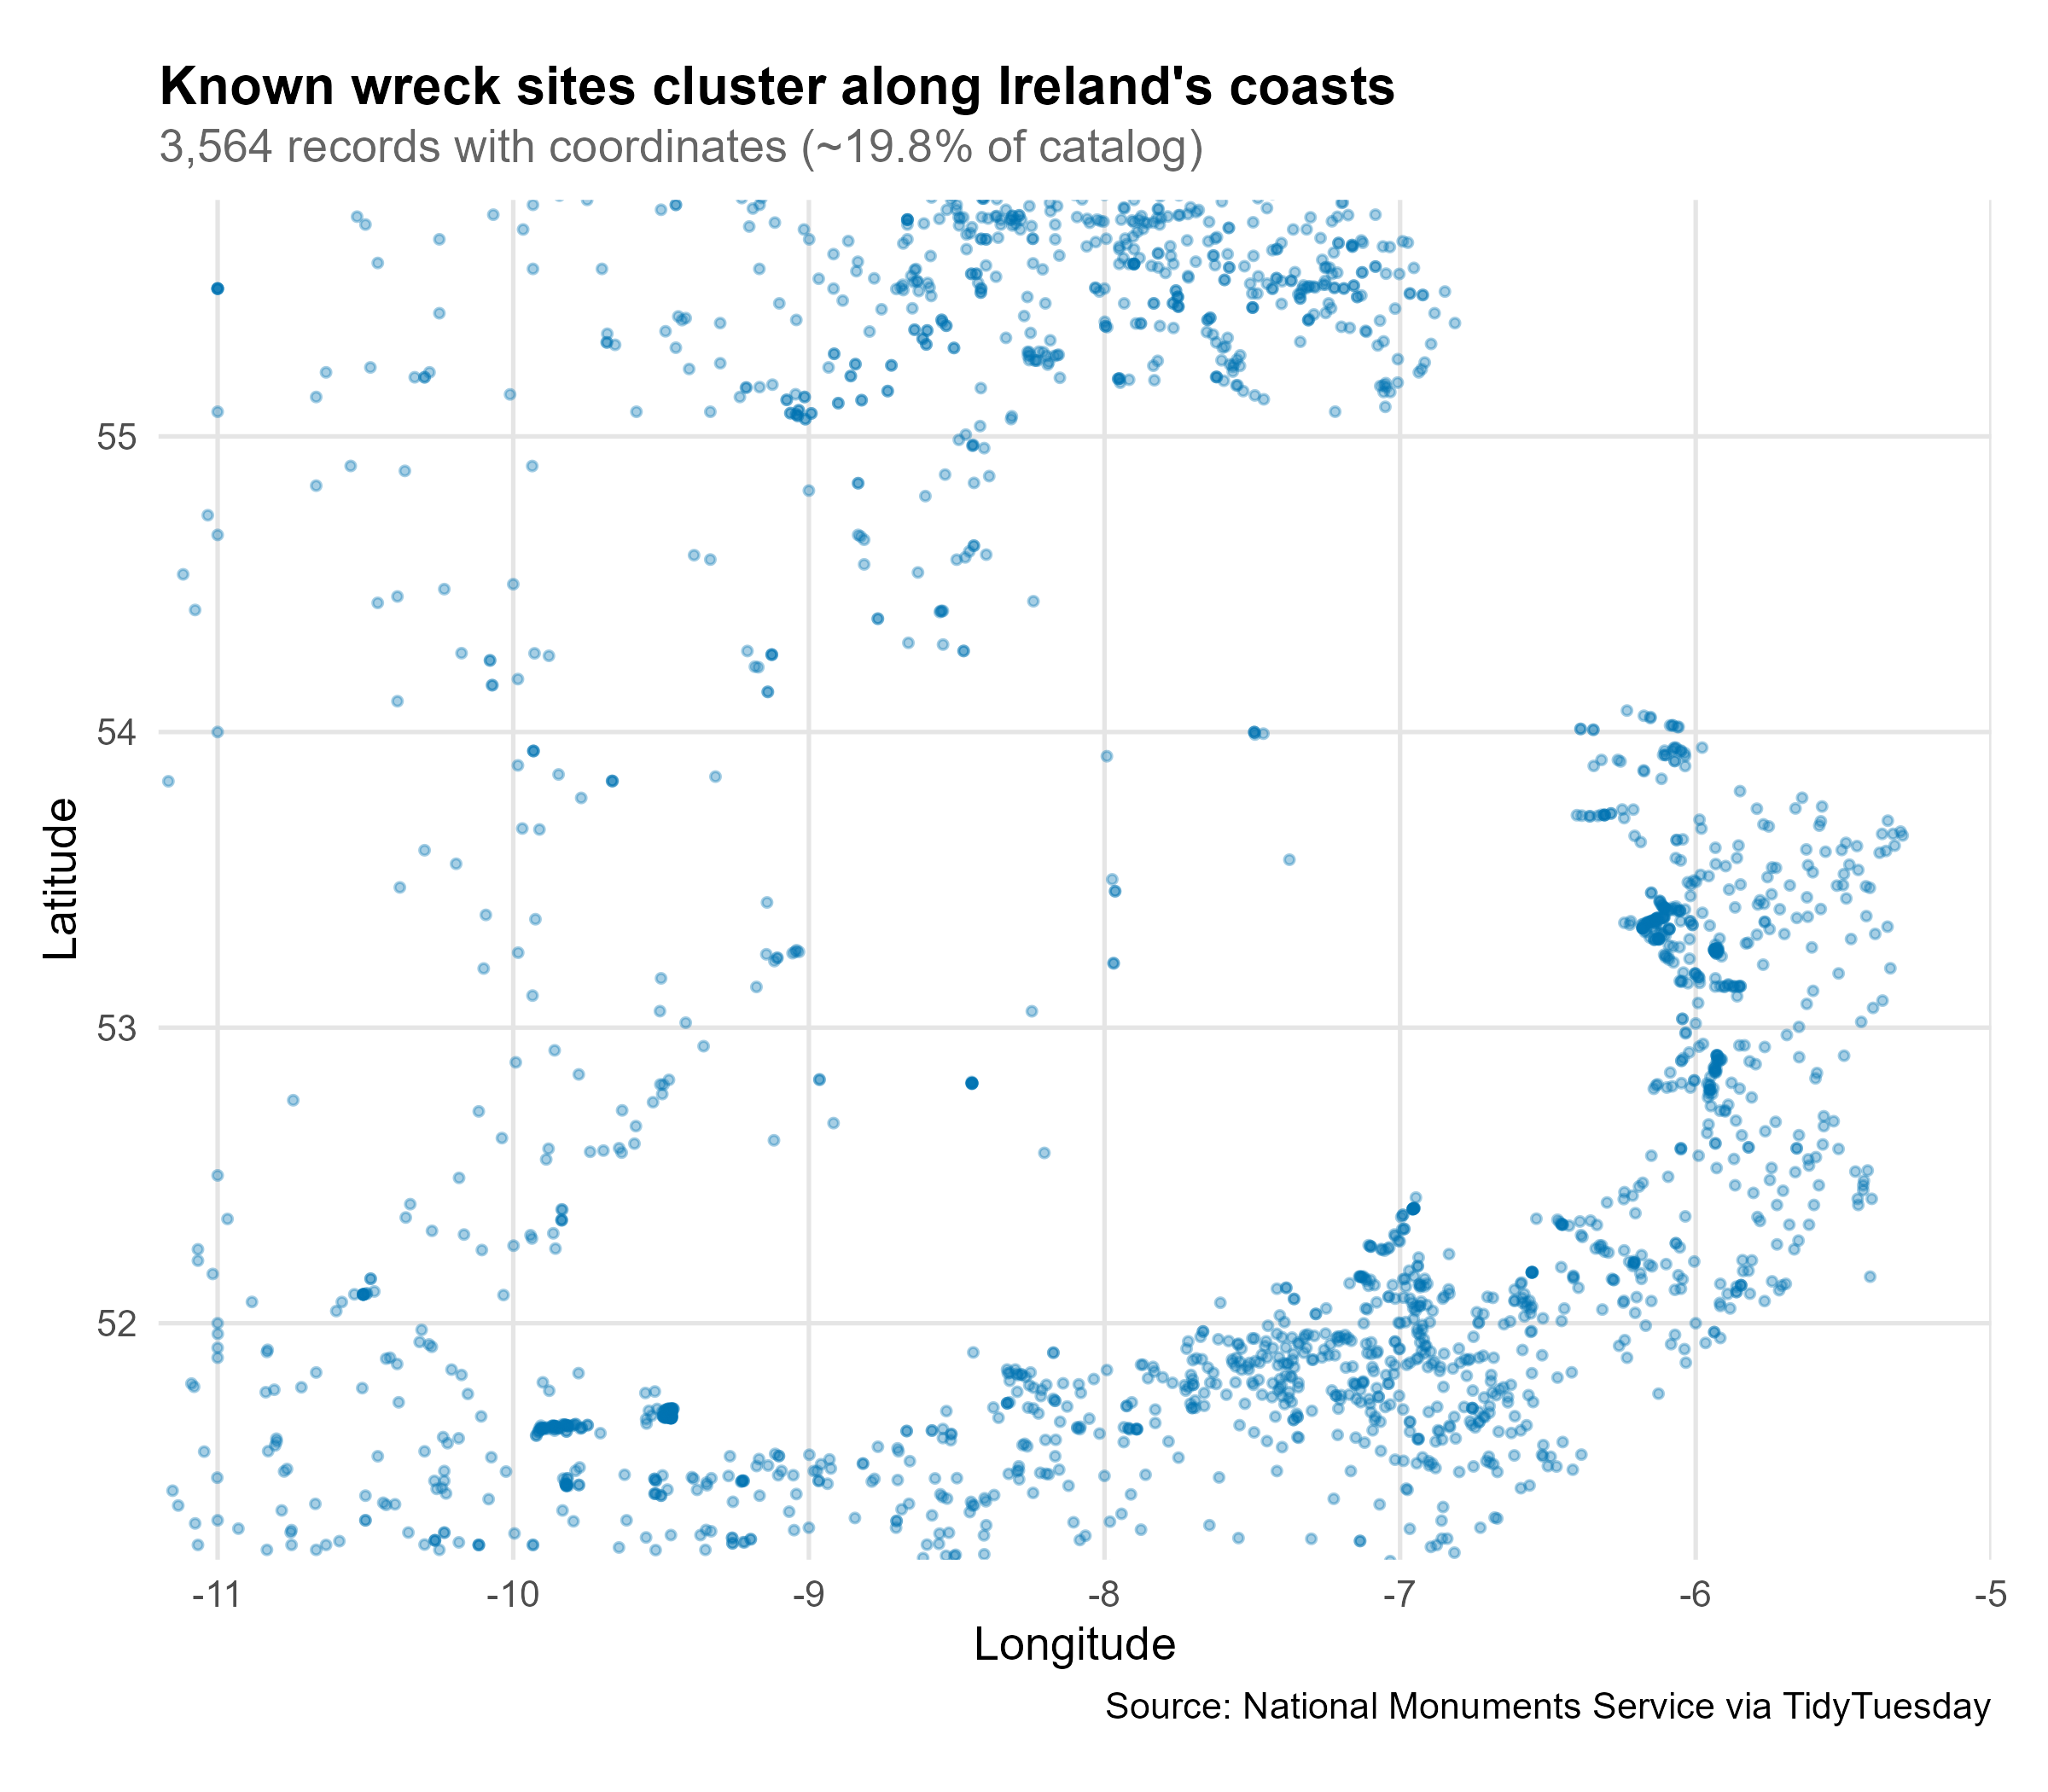
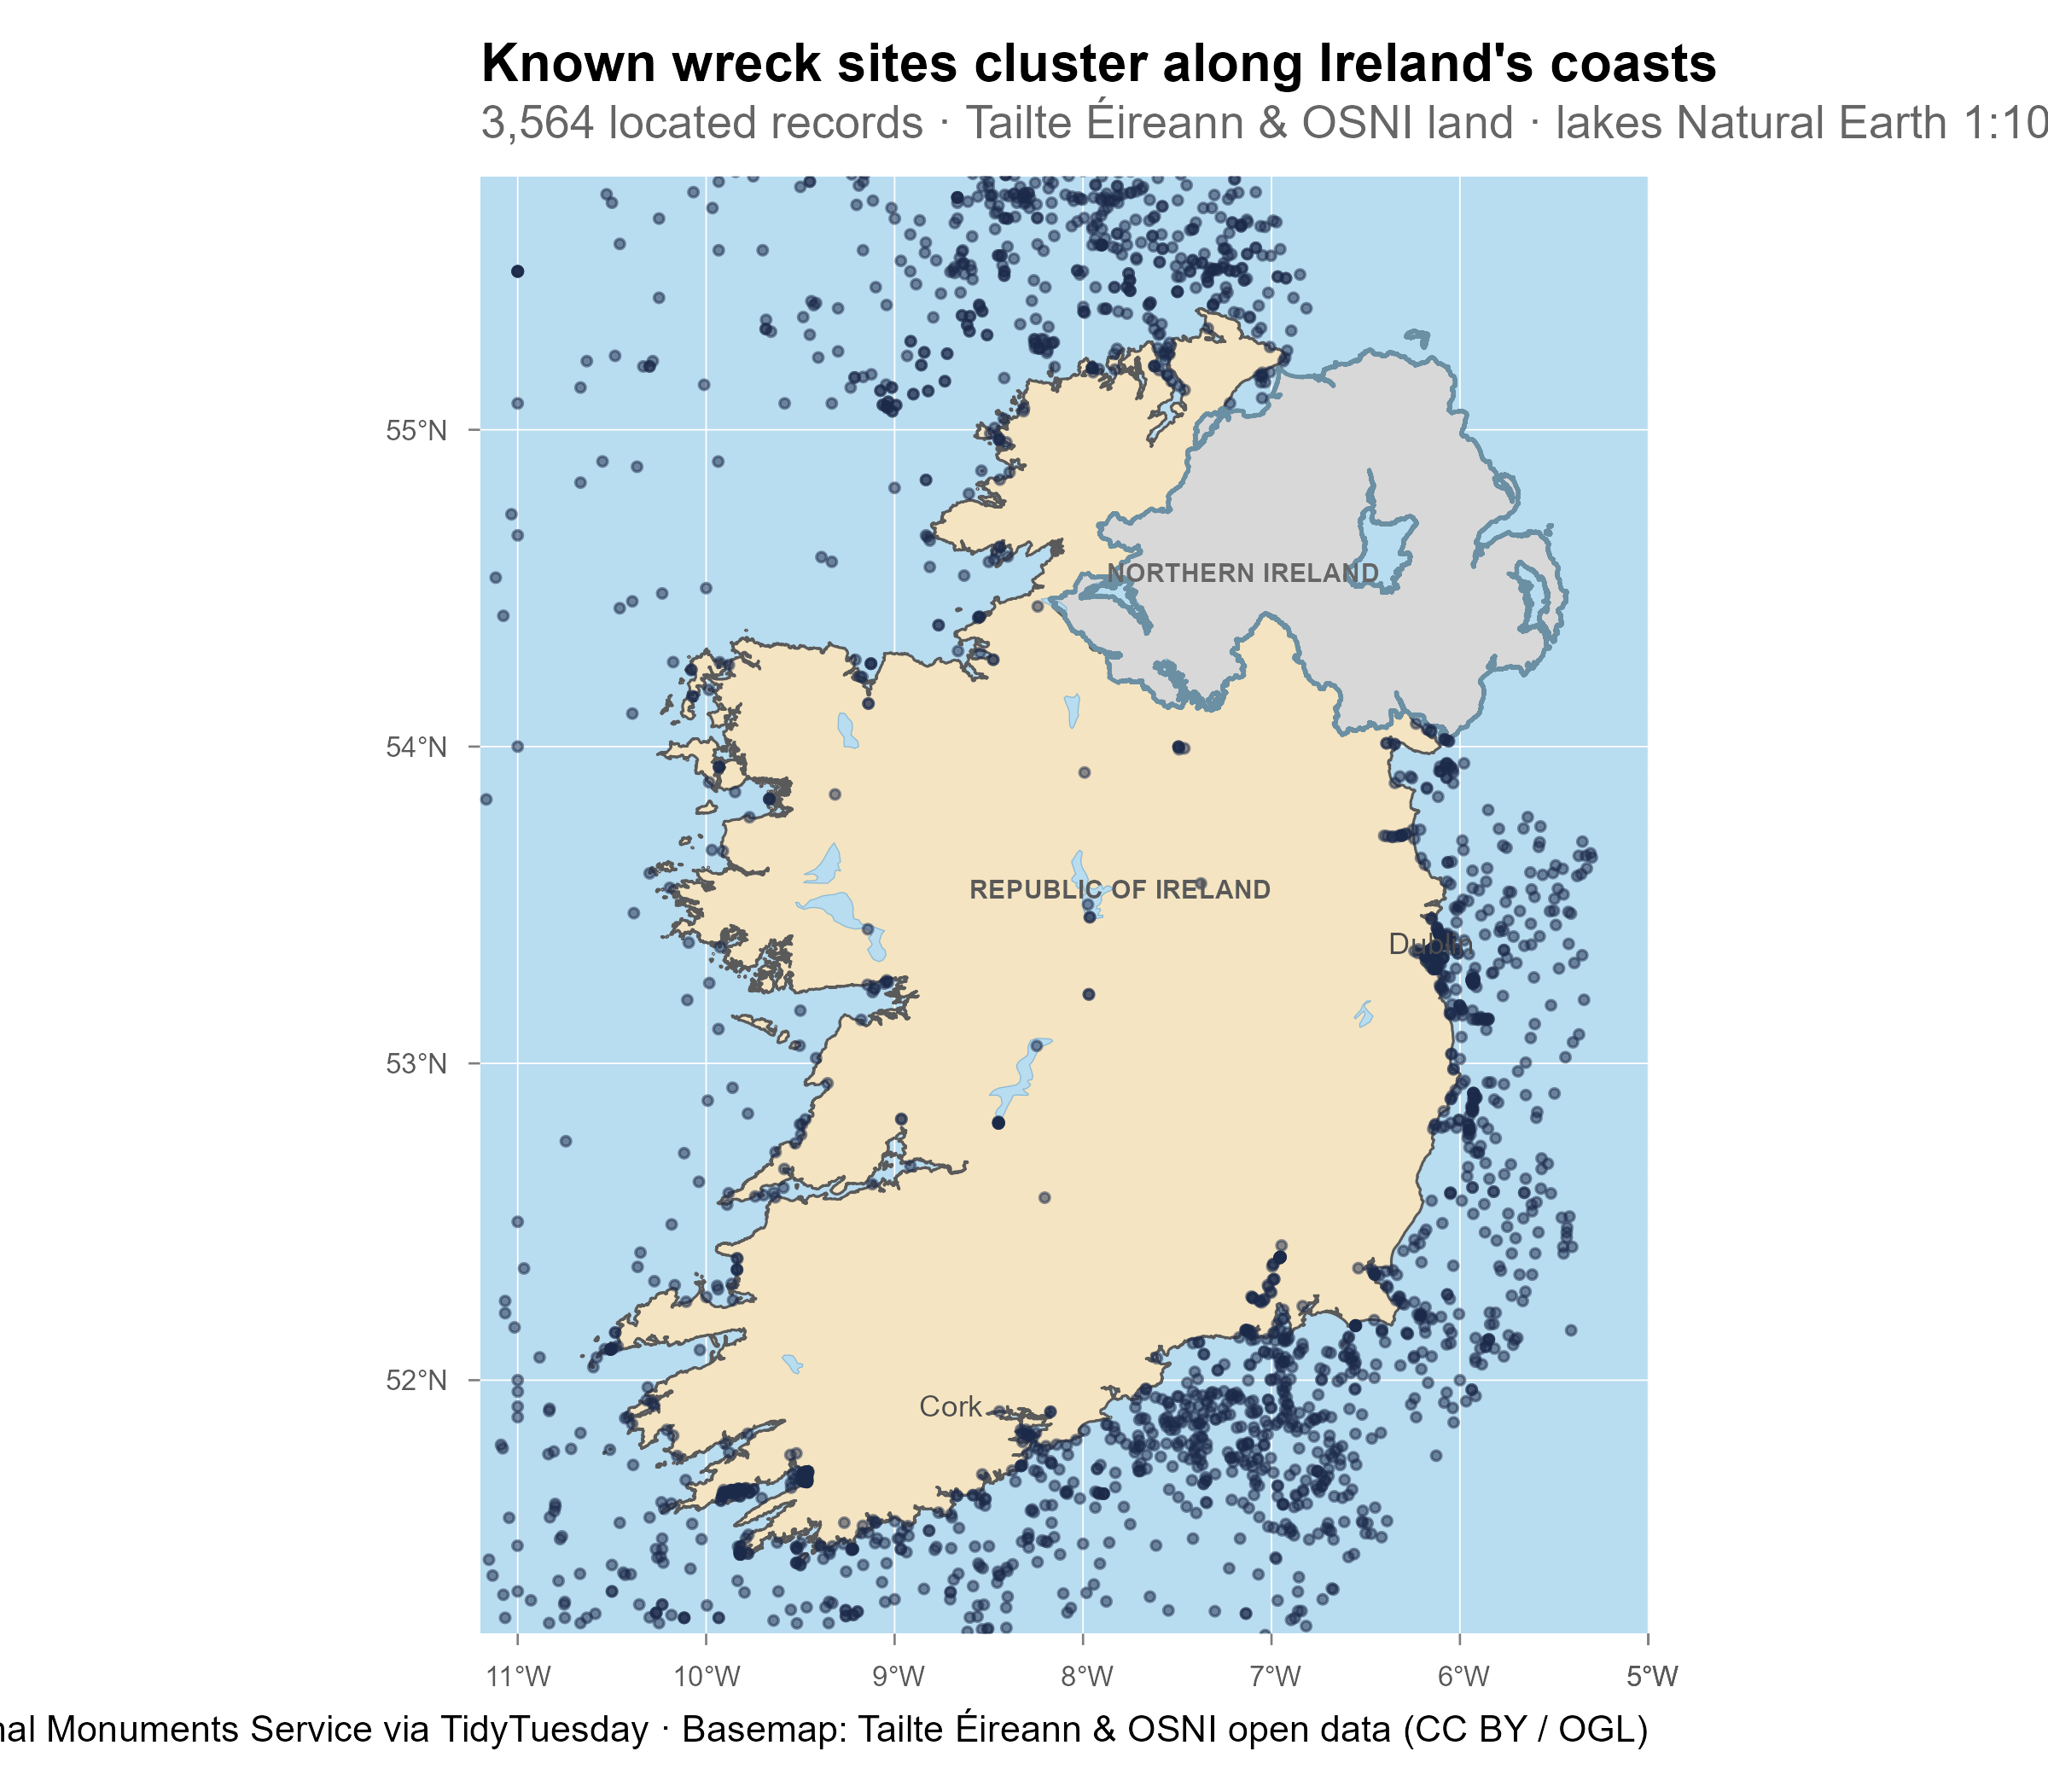
Use Tailte Éireann and OSNI land outlines for the wreck map.
Official survey basemap replaces Natural Earth admin polygons so the island coastline and major loughs read correctly on the cartographic chart.

diff --git a/2026_06_30_wreck_inventory_ireland/analysis.html b/2026_06_30_wreck_inventory_ireland/analysis.html
@@ -139,12 +139,15 @@ pre > code.sourceCode > span > a:first-child::before { text-decoration: underlin
 <span id="cb1-11"><a href="#cb1-11" aria-hidden="true" tabindex="-1"></a></span>
 <span id="cb1-12"><a href="#cb1-12" aria-hidden="true" tabindex="-1"></a><span class="fu">dir.create</span>(<span class="st">"output"</span>, <span class="at">showWarnings =</span> <span class="cn">FALSE</span>)</span>
 <span id="cb1-13"><a href="#cb1-13" aria-hidden="true" tabindex="-1"></a></span>
-<span id="cb1-14"><a href="#cb1-14" aria-hidden="true" tabindex="-1"></a><span class="cf">if</span> (<span class="sc">!</span><span class="fu">file.exists</span>(<span class="st">"data/wreck_inventory.csv"</span>)) {</span>
-<span id="cb1-15"><a href="#cb1-15" aria-hidden="true" tabindex="-1"></a>  <span class="fu">download_data</span>()</span>
-<span id="cb1-16"><a href="#cb1-16" aria-hidden="true" tabindex="-1"></a>}</span>
-<span id="cb1-17"><a href="#cb1-17" aria-hidden="true" tabindex="-1"></a></span>
-<span id="cb1-18"><a href="#cb1-18" aria-hidden="true" tabindex="-1"></a>wreck_inventory <span class="ot">&lt;-</span> <span class="fu">load_wreck_data</span>()</span>
-<span id="cb1-19"><a href="#cb1-19" aria-hidden="true" tabindex="-1"></a>results <span class="ot">&lt;-</span> <span class="fu">save_week_plots</span>(wreck_inventory)</span></code></pre></div><button title="Copy to Clipboard" class="code-copy-button"><i class="bi"></i></button></div>
+<span id="cb1-14"><a href="#cb1-14" aria-hidden="true" tabindex="-1"></a><span class="cf">if</span> (<span class="sc">!</span><span class="fu">file.exists</span>(<span class="st">"data/wreck_inventory.csv"</span>) <span class="sc">||</span></span>
+<span id="cb1-15"><a href="#cb1-15" aria-hidden="true" tabindex="-1"></a>    <span class="sc">!</span><span class="fu">file.exists</span>(<span class="st">"data/ne_10m_lakes.geojson"</span>) <span class="sc">||</span></span>
+<span id="cb1-16"><a href="#cb1-16" aria-hidden="true" tabindex="-1"></a>    <span class="sc">!</span><span class="fu">file.exists</span>(<span class="st">"data/osi_landmask.geojson"</span>) <span class="sc">||</span></span>
+<span id="cb1-17"><a href="#cb1-17" aria-hidden="true" tabindex="-1"></a>    <span class="sc">!</span><span class="fu">file.exists</span>(<span class="st">"data/osni_outline.geojson"</span>)) {</span>
+<span id="cb1-18"><a href="#cb1-18" aria-hidden="true" tabindex="-1"></a>  <span class="fu">download_data</span>()</span>
+<span id="cb1-19"><a href="#cb1-19" aria-hidden="true" tabindex="-1"></a>}</span>
+<span id="cb1-20"><a href="#cb1-20" aria-hidden="true" tabindex="-1"></a></span>
+<span id="cb1-21"><a href="#cb1-21" aria-hidden="true" tabindex="-1"></a>wreck_inventory <span class="ot">&lt;-</span> <span class="fu">load_wreck_data</span>()</span>
+<span id="cb1-22"><a href="#cb1-22" aria-hidden="true" tabindex="-1"></a>results <span class="ot">&lt;-</span> <span class="fu">save_week_plots</span>(wreck_inventory)</span></code></pre></div><button title="Copy to Clipboard" class="code-copy-button"><i class="bi"></i></button></div>
 </details>
 </div>
 <p>Data from <a href="https://github.com/rfordatascience/tidytuesday/tree/main/data/2026/2026-06-30">TidyTuesday 2026-06-30</a>: the <a href="https://www.archaeology.ie/advice-and-support/locate-a-monument-or-wreck/wreck-viewer/">Wreck Inventory of Ireland Database (WIID)</a> — over 18,000 known and potential wreck records in Irish waters, curated by Cormac Monaghan.</p>
@@ -292,7 +295,7 @@ pre > code.sourceCode > span > a:first-child::before { text-decoration: underlin
 </div>
 </div>
 </div>
-<p><strong>Takeaway:</strong> Mapped wrecks cluster along <strong>Ireland’s coasts and major shipping lanes</strong> — especially the south and west. Only ~3,500 records (~20%) have coordinates, so the map shows known sites, not the full catalog.</p>
+<p><strong>Takeaway:</strong> Mapped wrecks cluster along <strong>Ireland’s coasts and shipping lanes</strong>. The basemap uses Tailte Éireann and OSNI open land outlines (cream Republic, grey Northern Ireland) with major lakes from Natural Earth 1:10m (including Lough Ree and Lough Derg). Only ~3,500 records (~20%) have coordinates.</p>
 <hr>
 </section>
 <section id="angle-4-vessel-types" class="level2">

diff --git a/2026_06_30_wreck_inventory_ireland/NOTES.md b/2026_06_30_wreck_inventory_ireland/NOTES.md
@@ -35,8 +35,8 @@ The **Wreck Inventory of Ireland Database (WIID)** lists more than **18,000** kn
 **Story:** Peaks in the 1800s and around WWI; reflects both maritime traffic and catalog completeness.
 
 ### `03_wreck_map.png`
-**What:** Point map of ~3,500 located wrecks around Ireland.  
-**Story:** Coastal clustering; the map is a subset of the full database.
+**What:** Cartographic map — Tailte Éireann landmask (Republic), OSNI outline (Northern Ireland), major lakes (Ree, Derg, Corrib, Neagh, etc.), wreck points.  
+**Story:** Coastal clustering; inland wrecks align with mapped loughs where Natural Earth has geometry.
 
 ### `04_top_classifications.png`
 **What:** Top 10 vessel type labels.  